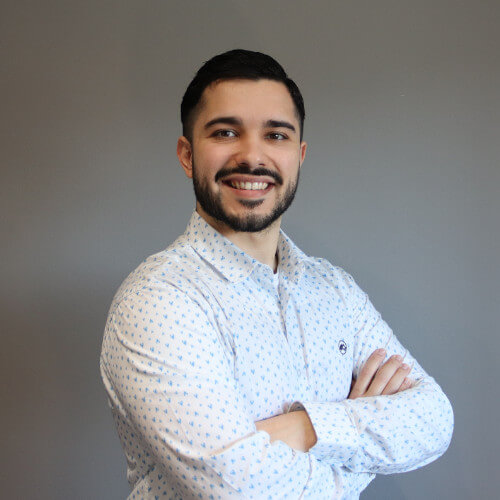
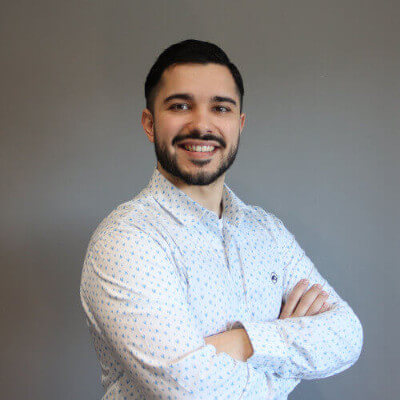
feat: :sparkles: Optimize images

Changed region(s): [[0.57, 0.54, 0.6, 0.57], [0.27, 0.57, 0.3, 0.6]]

diff --git a/index.html b/index.html
@@ -6,7 +6,7 @@
 		<meta name="viewport" content="width=device-width, initial-scale=1.0" />
 		<meta name="description" content="Portfolio de David Tojo." />
 		<title>David Tojo</title>
-		<link rel="icon" type="image/png" href="./assets/icons/favicon.png" sizes="64x64" />
+		<link rel="icon" type="image/png" href="assets/img/me.png" sizes="64x64" />
 		<link rel="stylesheet" href="style/resets.css" />
 		<link rel="stylesheet" href="style/index.css" />
 	</head>
@@ -15,7 +15,7 @@
 		<header class="menu no-text-select">
 			<div class="max-width">
 				<a class="logo" href="#top">
-					<img src="assets/img/logo.png" alt="Logotipo" />
+					<img src="assets/img/logo.webp" alt="Logotipo" />
 				</a>
 
 				<nav>
@@ -390,7 +390,7 @@
 
 					<article>
 						<div class="image">
-							<img src="assets/img/me.jpeg" alt="David Tojo" />
+							<img src="assets/img/me.jpeg" loading="lazy" alt="David Tojo" />
 						</div>
 
 						<div class="texts">
